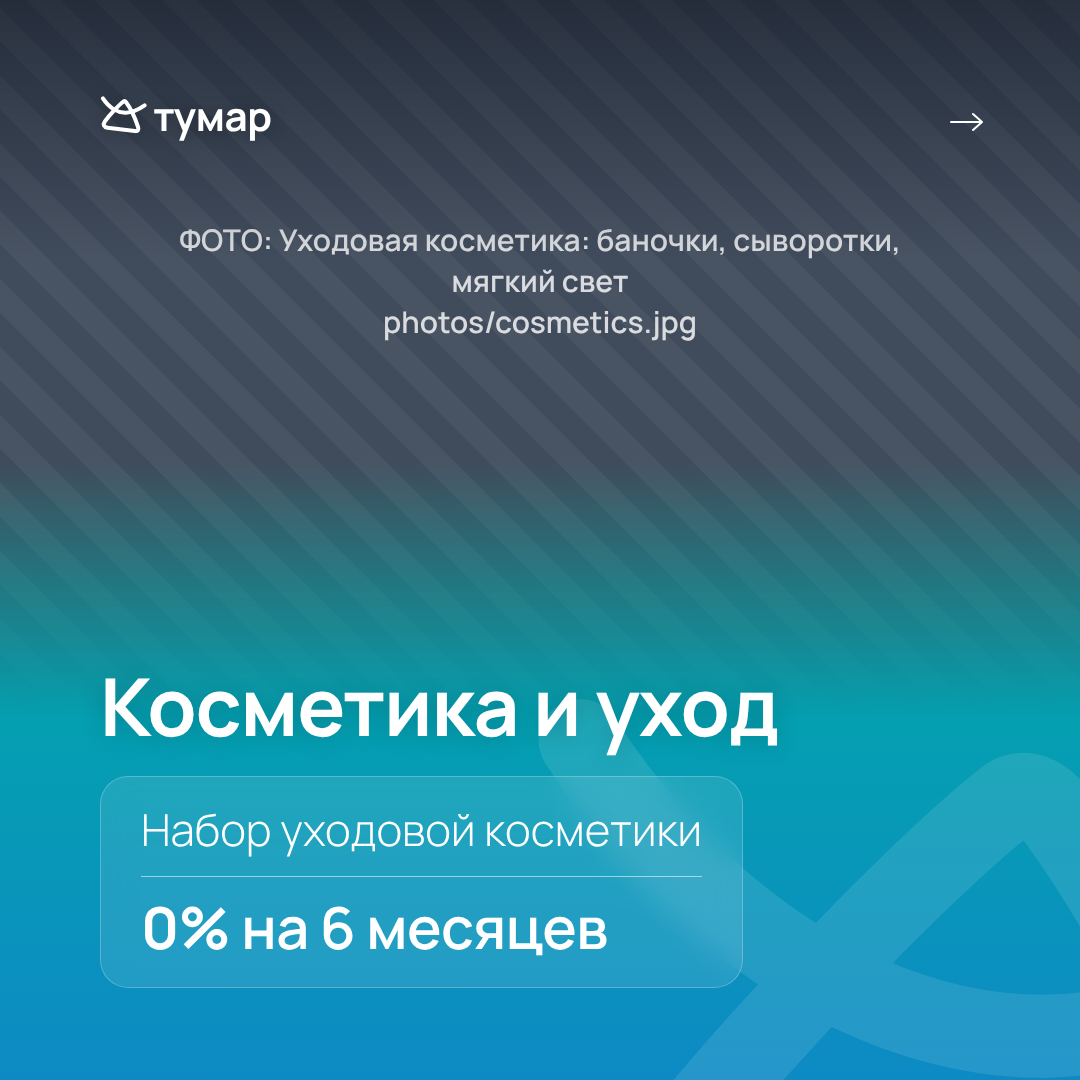
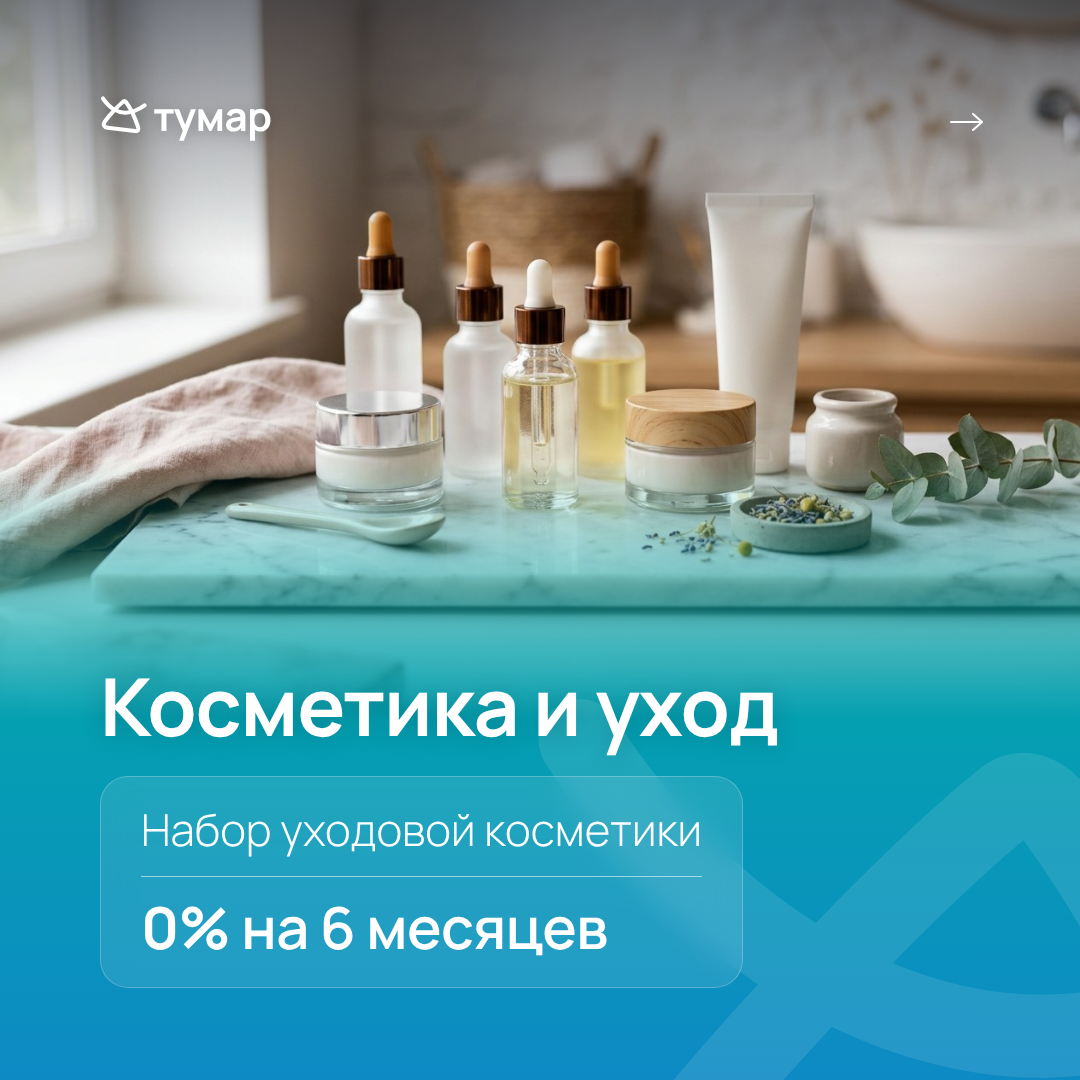
Tumar: add 10 of 11 category photos, refresh draft export
sofa.jpg is still missing (Figma AI usage limit), so the final export
in png/ is not built yet; png-draft/ now uses the real photos.

Claude-Session: https://claude.ai/code/session_0145vB5sBsZnQZsTgsjeYxjN

diff --git a/tumar/README.md b/tumar/README.md
@@ -7,9 +7,10 @@
 
 - `carousels.html` — все карточки; содержание в массиве `CAROUSELS` в начале скрипта
 - `export.js` — выгрузка в PNG через Playwright
-- `photos/<имя>.jpg` — фото категорий (имена и описания — объект `PHOTOS`)
+- `photos/<имя>.jpg` — фото категорий, сгенерированы в Figma AI (gemini-3.1-flash-image), имена и описания — объект `PHOTOS`.
+  Готовы 10 из 11; **нет `sofa.jpg`** — генерацию остановил лимит Figma AI, поэтому чистовой экспорт пока не собирается
 - `posts.md` — тексты постов
-- `png/` — чистовые PNG, `png-draft/` — черновик с заглушками вместо фото
+- `png/` — чистовые PNG (появятся после `sofa.jpg`), `png-draft/` — черновик: реальные фото, заглушка только у дивана
 
 ## Сборка
 
